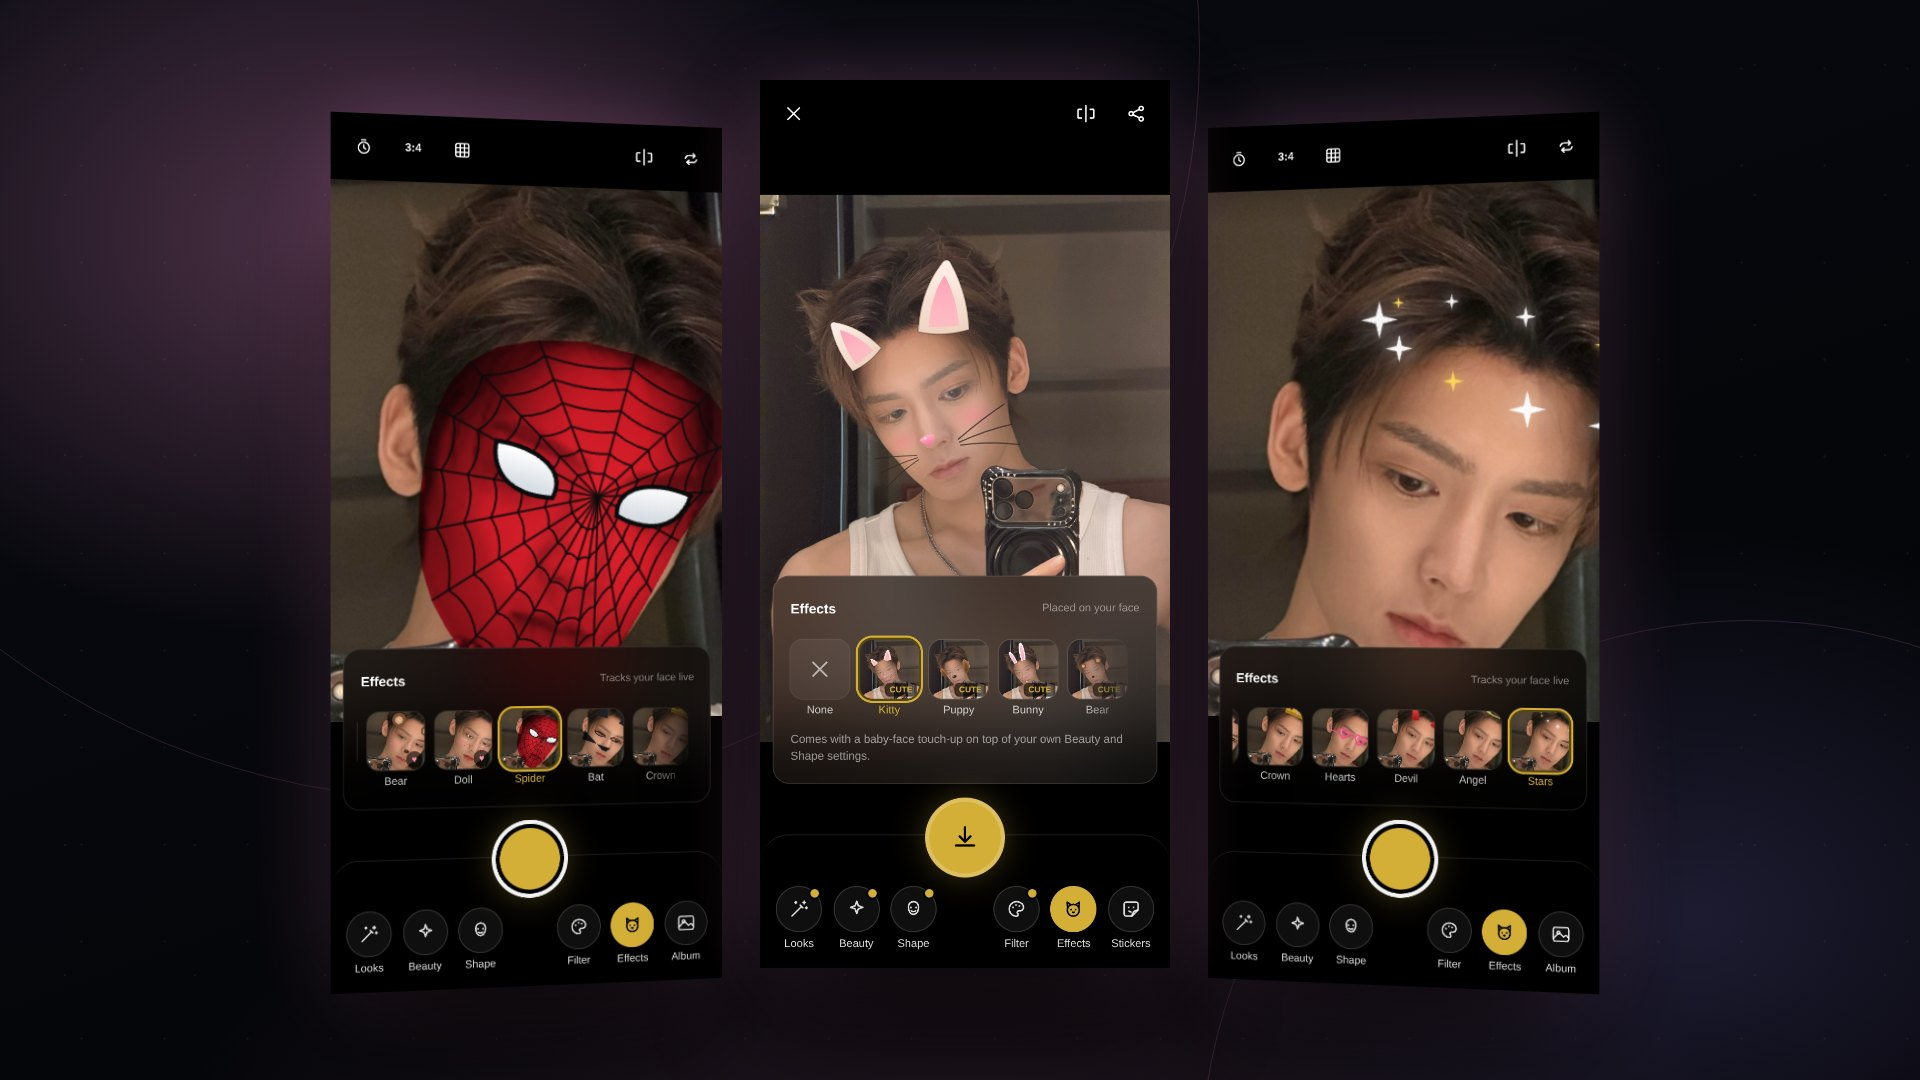
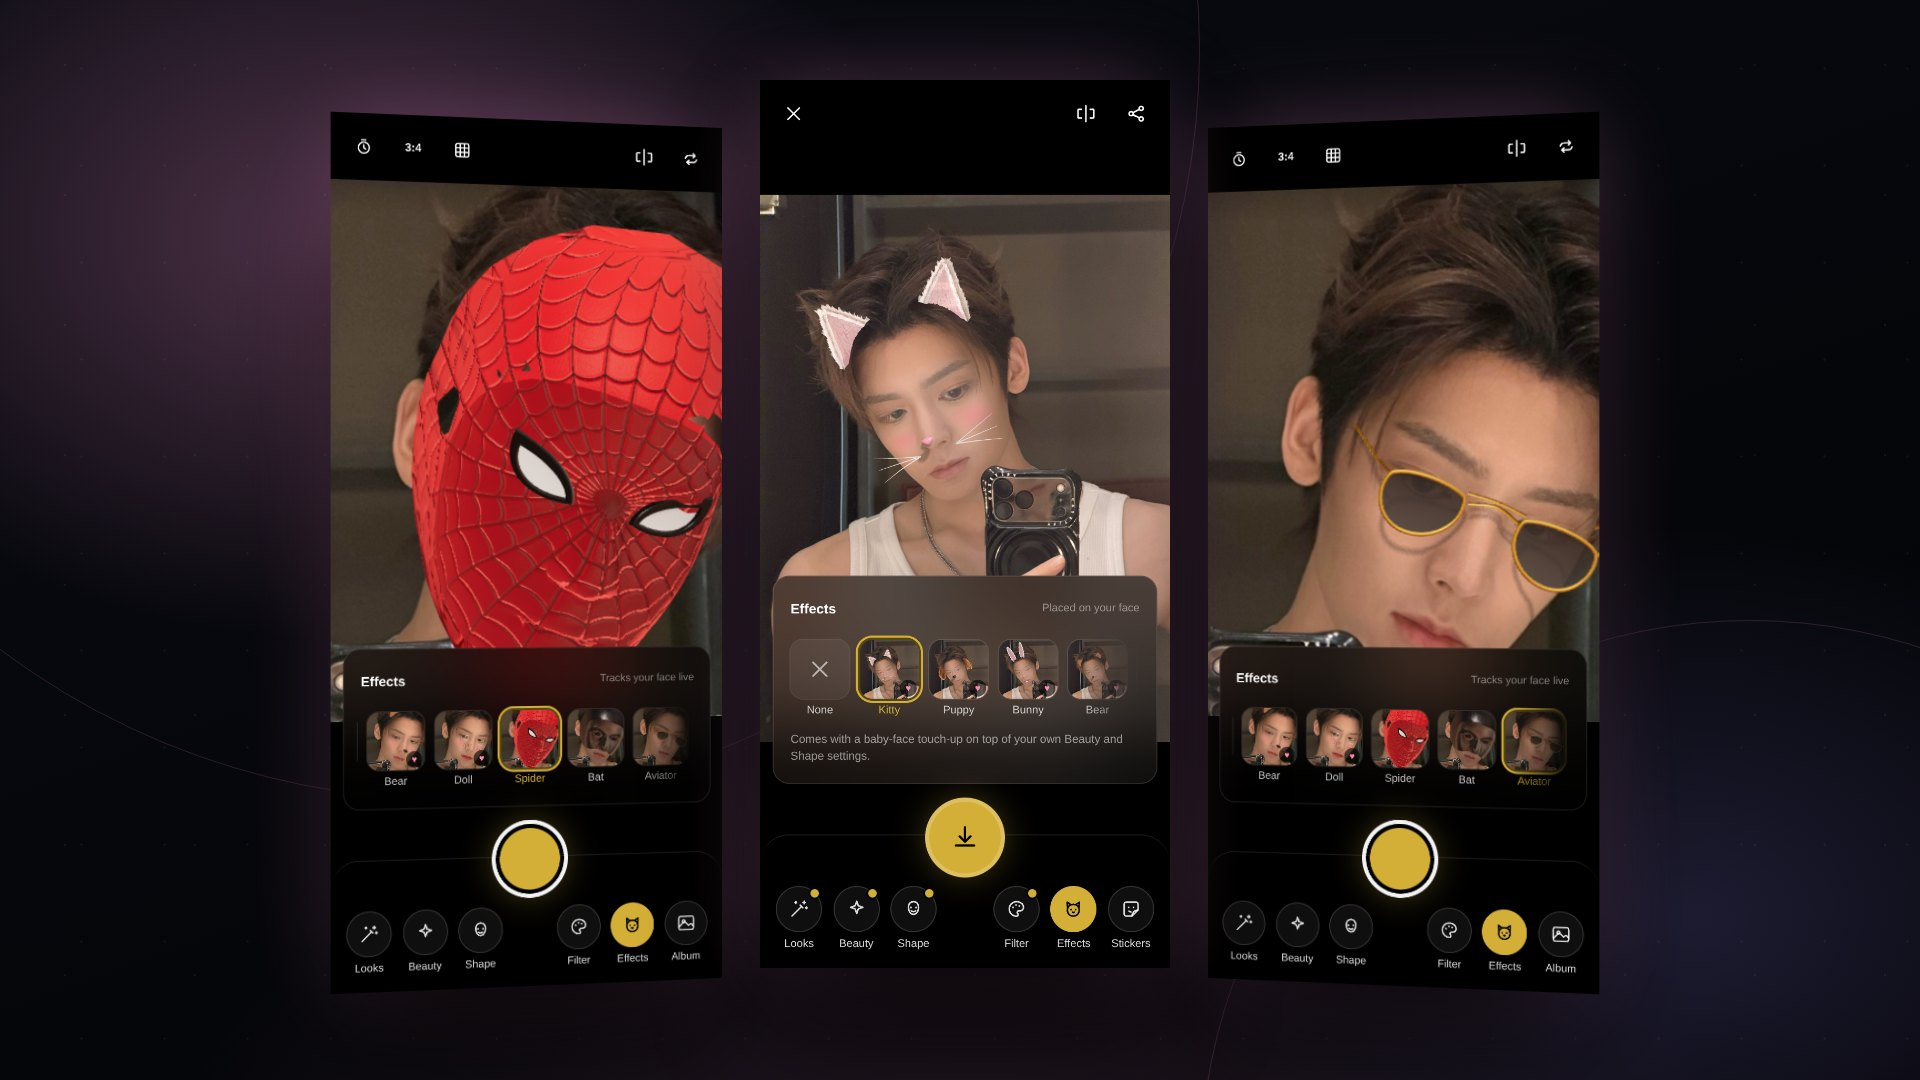
Flux Glow: showcase the 3D AR effects
Claude-Session: https://claude.ai/code/session_014Jf1Zz5VdAFUz4GXuR9DEp

diff --git a/lib/translations.ts b/lib/translations.ts
@@ -233,7 +233,7 @@ export const translations: Record<Language, Dict> = {
         {
           subtitle: 'AI Photo Retouching Studio',
           description:
-            'A beauty camera that runs entirely in the browser. MediaPipe’s 478-point face mesh drives frequency-separation skin smoothing and 3D relighting, 26 face-shape controls built as bounded local mesh transforms (so even ±100 stays natural), one-tap Looks like Baby Face and Chiseled, face-tracked AR effects from kitty ears to a web-slinger mask, and stickers, emoji and text on the finished photo — live or on a still, every pixel processed on-device.',
+            'A beauty camera that runs entirely in the browser. MediaPipe’s 478-point face mesh drives frequency-separation skin smoothing and 3D relighting, 26 face-shape controls built as bounded local mesh transforms (so even ±100 stays natural), one-tap Looks like Baby Face and Chiseled, face-tracked 3D AR effects — shell-rendered fur ears, face-conforming masks and modeled eyewear lit by light estimated from the photo — and stickers, emoji and text on the finished photo — live or on a still, every pixel processed on-device.',
           highlights: ['26 shape controls that stay natural even at the extremes', 'Looks, AR effects and stickers previewed on your own face', 'Fully on-device — nothing is ever uploaded'],
         },
         {
@@ -409,7 +409,7 @@ export const translations: Record<Language, Dict> = {
         {
           subtitle: 'AI 智能修图工作室',
           description:
-            '完全在浏览器中运行的美颜相机。MediaPipe 478 点人脸网格驱动频率分离磨皮与 3D 补光；26 项五官微调以有界的局部网格变换实现，拉到 ±100 依然自然；一键风格模板如幼态、硬朗；从猫耳到蜘蛛侠面具的人脸追踪特效；成片还能加贴纸、表情和文字 —— 实时拍摄或单张照片皆可，所有像素都在本地处理。',
+            '完全在浏览器中运行的美颜相机。MediaPipe 478 点人脸网格驱动频率分离磨皮与 3D 补光；26 项五官微调以有界的局部网格变换实现，拉到 ±100 依然自然；一键风格模板如幼态、硬朗；人脸追踪 3D 特效 —— 毛绒质感的立体耳朵、贴合脸型建模的面具与真实镜框眼镜，光影取自照片本身；成片还能加贴纸、表情和文字 —— 实时拍摄或单张照片皆可，所有像素都在本地处理。',
           highlights: ['26 项五官微调，拉到极限依然自然', '风格模板、AR 特效与贴纸，都在你脸上实时预览', '全程本地处理，照片从不上传'],
         },
         {

diff --git a/lib/data.ts b/lib/data.ts
@@ -151,14 +151,14 @@ export const projects: Project[] = [
     title: 'Flux Glow',
     subtitle: 'AI Photo Retouching Studio',
     description:
-      'A beauty camera that runs entirely in the browser. MediaPipe’s 478-point face mesh drives frequency-separation skin smoothing and 3D relighting, 26 face-shape controls built as bounded local mesh transforms (so even ±100 stays natural), one-tap Looks like Baby Face and Chiseled, face-tracked AR effects from kitty ears to a web-slinger mask, and stickers, emoji and text on the finished photo — live or on a still, every pixel processed on-device.',
+      'A beauty camera that runs entirely in the browser. MediaPipe’s 478-point face mesh drives frequency-separation skin smoothing and 3D relighting, 26 face-shape controls built as bounded local mesh transforms (so even ±100 stays natural), one-tap Looks like Baby Face and Chiseled, face-tracked 3D AR effects — shell-rendered fur ears, face-conforming masks and modeled eyewear lit by light estimated from the photo — and stickers, emoji and text on the finished photo — live or on a still, every pixel processed on-device.',
     tech: ['React 19', 'MediaPipe', 'Canvas API', 'TypeScript', 'Vite'],
     link: 'https://flux-glow-f60xl28cu-fox-1121.vercel.app/',
     image: '/images/projects/flux-glow/cover.jpg',
     gallery: [
       { src: '/images/projects/flux-glow/cover.jpg', caption: 'Before and after — smoothing, whitening and the Peach filter, on-device' },
       { src: '/images/projects/flux-glow/compare.jpg', caption: 'Hold to compare — the original and the retouch, side by side' },
-      { src: '/images/projects/flux-glow/effects.jpg', caption: 'Face-tracked AR effects — masks, ears and halos that follow you live' },
+      { src: '/images/projects/flux-glow/effects.jpg', caption: '3D AR effects — fur ears, a moulded mask and real eyewear, lit by your own scene' },
       { src: '/images/projects/flux-glow/create.jpg', caption: 'One-tap Looks, stickers and text, and per-feature Shape tabs' },
       { src: '/images/projects/flux-glow/panels.jpg', caption: 'Beauty, Shape and Filter — every adjustment previewed live' },
     ],
